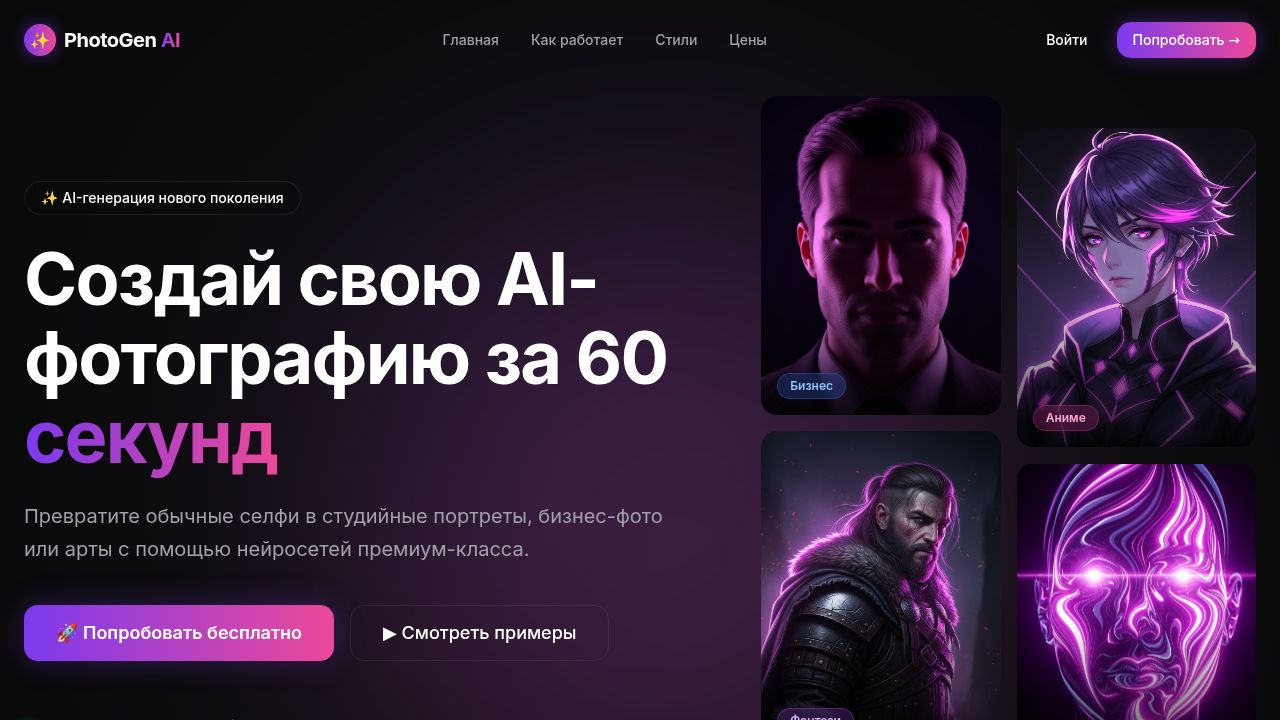
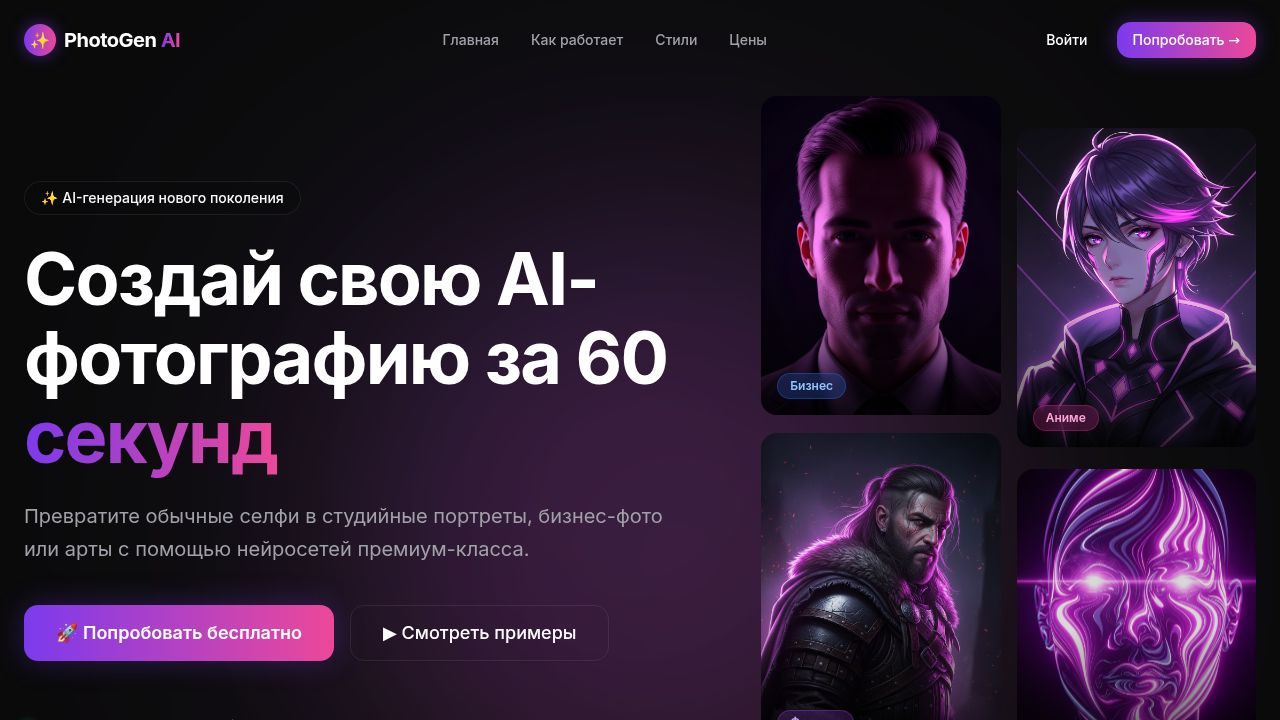
Add AI assistant to help create new style cards and generate previews
Integrates OpenAI's API for text generation to assist in creating style titles, descriptions, and prompts. Includes logic to generate preview images via kie.ai and handle potential API key variations (OpenAI vs. OpenRouter).

Replit-Commit-Author: Agent
Replit-Commit-Session-Id: d3d5835e-31ed-4e98-9926-4d1803e46ea5
Replit-Commit-Checkpoint-Type: full_checkpoint
Replit-Commit-Event-Id: f8f4cb1a-bcbe-4ab3-8c1d-16299fd2ab0e
Replit-Commit-Screenshot-Url: https://storage.googleapis.com/screenshot-production-us-central1/c30d35af-1b04-4a99-98cc-69ab043cd2fa/d3d5835e-31ed-4e98-9926-4d1803e46ea5/wPOqjKo
Replit-Helium-Checkpoint-Created: true

Changed region(s): [[0.7812, 0.6417, 1.0, 1.0], [0.5938, 0.6417, 0.75, 0.9472], [0.5938, 0.9778, 0.6562, 1.0]]

diff --git a/artifacts/api-server/src/routes/admin.ts b/artifacts/api-server/src/routes/admin.ts
@@ -3,6 +3,9 @@ import { db, usersTable, ordersTable, stylesTable, tariffsTable, servicesTable, 
 import { eq, desc, sql } from "drizzle-orm";
 import { z } from "zod";
 import { hashPassword, requireAuth } from "../lib/auth";
+import { getOpenAI, assistModel } from "../lib/openai";
+import { kieCreateNanoBananaProTask, kieGetTask } from "../lib/kie";
+import { uploadBufferToStorage } from "../lib/storage-helpers";
 
 const router: IRouter = Router();
 
@@ -235,6 +238,129 @@ router.patch("/admin/styles/:id", async (req, res) => {
 router.delete("/admin/styles/:id", async (req, res) => {
   await db.delete(stylesTable).where(eq(stylesTable.id, req.params.id));
   res.json({ ok: true });
+});
+
+// ---------- AI assistant for creating styles ----------
+const DEFAULT_STYLE_PRICE = 21;
+
+const AssistSchema = z.object({
+  idea: z.string().min(3).max(4000),
+});
+
+const AssistResultSchema = z.object({
+  title: z.string().min(1),
+  shortDescription: z.string().min(1),
+  fullDescription: z.string().min(1),
+  category: z.string().min(1),
+  prompt: z.string().min(1),
+  imagePrompt: z.string().min(1),
+});
+
+router.post("/admin/styles/assist", async (req, res) => {
+  const parsed = AssistSchema.safeParse(req.body);
+  if (!parsed.success) {
+    res.status(400).json({ error: "Опишите идею стиля (минимум 3 символа)" });
+    return;
+  }
+  const idea = parsed.data.idea.trim();
+
+  let result: z.infer<typeof AssistResultSchema>;
+  try {
+    const completion = await getOpenAI().chat.completions.create({
+      model: assistModel(),
+      response_format: { type: "json_object" },
+      messages: [
+        {
+          role: "system",
+          content:
+            "Ты — ассистент фоторедактора PhotoGen AI. По идее администратора ты придумываешь карточку нового фотостиля. " +
+            "Отвечай строго JSON-объектом со следующими полями: " +
+            "title (короткое название стиля на русском, 2–4 слова), " +
+            "shortDescription (короткое описание на русском, одна строка до 80 символов), " +
+            "fullDescription (полное описание на русском, 2–3 предложения, что получит пользователь), " +
+            "category (одна категория на русском, например «Деловой», «Творческий», «Гламур»), " +
+            "prompt (инструкция на АНГЛИЙСКОМ для модели редактирования изображений Nano Banana Pro — как преобразовать загруженное пользователем фото в этот стиль, сохраняя лицо и черты человека; детально опиши свет, фон, одежду, настроение), " +
+            "imagePrompt (отдельный промпт на АНГЛИЙСКОМ для генерации привлекательной обложки-примера этого стиля с фотореалистичным человеком; portrait, high quality). " +
+            "Никакого текста кроме JSON.",
+        },
+        { role: "user", content: idea },
+      ],
+      max_completion_tokens: 1200,
+    });
+    const raw = completion.choices[0]?.message?.content ?? "";
+    const json = JSON.parse(raw) as unknown;
+    const validated = AssistResultSchema.safeParse(json);
+    if (!validated.success) {
+      req.log.error({ raw }, "assist returned unexpected shape");
+      res.status(502).json({ error: "ИИ вернул некорректный ответ, попробуйте ещё раз" });
+      return;
+    }
+    result = validated.data;
+  } catch (err) {
+    req.log.error({ err }, "assist text generation failed");
+    res.status(502).json({ error: "Не удалось сгенерировать тексты. Проверьте ключ OpenAI и попробуйте снова." });
+    return;
+  }
+
+  let imageTaskId: string | null = null;
+  try {
+    imageTaskId = await kieCreateNanoBananaProTask({
+      prompt: result.imagePrompt,
+      imageUrls: [],
+      aspectRatio: "3:4",
+      resolution: "2K",
+    });
+  } catch (err) {
+    req.log.error({ err }, "assist preview image kickoff failed");
+  }
+
+  res.json({
+    title: result.title,
+    shortDescription: result.shortDescription,
+    fullDescription: result.fullDescription,
+    category: result.category,
+    prompt: result.prompt,
+    price: DEFAULT_STYLE_PRICE,
+    imageTaskId,
+  });
+});
+
+router.get("/admin/styles/assist/image/:taskId", async (req, res) => {
+  const taskId = String(req.params.taskId ?? "");
+  if (!taskId) {
+    res.status(400).json({ error: "Invalid taskId" });
+    return;
+  }
+  try {
+    const info = await kieGetTask(taskId);
+    if (info.state === "success" && info.resultUrls.length > 0) {
+      const url = info.resultUrls[0]!;
+      let previewImageUrl = url;
+      try {
+        const ac = new AbortController();
+        const t = setTimeout(() => ac.abort(), 60_000);
+        const r = await fetch(url, { signal: ac.signal });
+        clearTimeout(t);
+        if (r.ok) {
+          const ct = (r.headers.get("content-type") ?? "image/png").split(";")[0]!.trim();
+          const buf = Buffer.from(await r.arrayBuffer());
+          previewImageUrl = await uploadBufferToStorage(buf, ct, "previews");
+        }
+      } catch (err) {
+        req.log.error({ err, url }, "assist preview mirror failed; using upstream url");
+      }
+      res.json({ status: "success", previewImageUrl });
+      return;
+    }
+    if (info.state === "fail") {
+      res.json({ status: "failed", error: info.errorMessage ?? "Не удалось сгенерировать изображение" });
+      return;
+    }
+    res.json({ status: "processing" });
+  } catch (err) {
+    req.log.error({ err, taskId }, "assist image status check failed");
+    res.json({ status: "processing" });
+  }
 });
 
 export default router;

diff --git a/artifacts/web/src/pages/Admin.tsx b/artifacts/web/src/pages/Admin.tsx
@@ -466,8 +466,76 @@ function StyleEditModal({ style, onClose, onSaved }: { style: Partial<StyleRow>;
   const [saving, setSaving] = useState(false);
   const [error, setError] = useState<string | null>(null);
 
+  const [idea, setIdea] = useState("");
+  const [assisting, setAssisting] = useState(false);
+  const [assistError, setAssistError] = useState<string | null>(null);
+  const [previewStatus, setPreviewStatus] = useState<"idle" | "generating" | "done" | "failed">("idle");
+
   function upd<K extends keyof typeof form>(key: K, val: typeof form[K]) {
     setForm((f) => ({ ...f, [key]: val }));
+  }
+
+  async function pollPreview(taskId: string): Promise<void> {
+    setPreviewStatus("generating");
+    for (let i = 0; i < 40; i++) {
+      await new Promise((r) => setTimeout(r, 3000));
+      try {
+        const r = await apiFetch<{ status: string; previewImageUrl?: string; error?: string }>(
+          `/admin/styles/assist/image/${taskId}`,
+        );
+        if (r.status === "success" && r.previewImageUrl) {
+          upd("previewImageUrl", r.previewImageUrl);
+          setPreviewStatus("done");
+          return;
+        }
+        if (r.status === "failed") {
+          setPreviewStatus("failed");
+          return;
+        }
+      } catch {
+        /* keep polling */
+      }
+    }
+    setPreviewStatus("failed");
+  }
+
+  async function runAssist() {
+    if (idea.trim().length < 3) {
+      setAssistError("Опишите идею стиля");
+      return;
+    }
+    setAssisting(true);
+    setAssistError(null);
+    setPreviewStatus("idle");
+    try {
+      const r = await apiFetch<{
+        title: string;
+        shortDescription: string;
+        fullDescription: string;
+        category: string;
+        prompt: string;
+        price: number;
+        imageTaskId: string | null;
+      }>("/admin/styles/assist", { method: "POST", body: JSON.stringify({ idea }) });
+      setForm((f) => ({
+        ...f,
+        title: r.title,
+        shortDescription: r.shortDescription,
+        fullDescription: r.fullDescription,
+        category: r.category,
+        prompt: r.prompt,
+        price: String(r.price),
+      }));
+      if (r.imageTaskId) {
+        void pollPreview(r.imageTaskId);
+      } else {
+        setPreviewStatus("failed");
+      }
+    } catch (e) {
+      setAssistError(e instanceof Error ? e.message : String(e));
+    } finally {
+      setAssisting(false);
+    }
   }
 
   async function save() {
@@ -502,6 +570,40 @@ function StyleEditModal({ style, onClose, onSaved }: { style: Partial<StyleRow>;
 
   return <Modal title={style.id ? "Редактировать стиль" : "Новый стиль"} onClose={onClose} wide>
     <div className="space-y-4">
+      <div className="rounded-xl border border-[#7C3AED]/40 bg-[#7C3AED]/10 p-4 space-y-3">
+        <div className="flex items-center gap-2">
+          <Sparkles size={18} className="text-[#A78BFA]" />
+          <span className="font-semibold text-white">AI-помощник</span>
+          <span className="text-xs text-muted-foreground">опишите идею — заполнит карточку и создаст превью</span>
+        </div>
+        <Textarea
+          value={idea}
+          onChange={(e) => setIdea(e.target.value)}
+          rows={3}
+          placeholder="Например: деловой портрет в современном офисе, мягкий свет, строгий костюм, уверенный образ для LinkedIn"
+          className="bg-secondary border-border text-white"
+        />
+        <div className="flex items-center gap-3 flex-wrap">
+          <Button
+            type="button"
+            onClick={runAssist}
+            disabled={assisting}
+            className="bg-gradient-primary text-white border-0"
+          >
+            {assisting ? "Генерация..." : "Сгенерировать с ИИ"}
+          </Button>
+          {previewStatus === "generating" && (
+            <span className="text-sm text-[#A78BFA] flex items-center gap-1.5">
+              <Loader2 size={14} className="animate-spin" /> Создаю превью-фото...
+            </span>
+          )}
+          {previewStatus === "done" && <span className="text-sm text-emerald-400">Превью готово ✓</span>}
+          {previewStatus === "failed" && (
+            <span className="text-sm text-amber-400">Превью не удалось — загрузите фото вручную ниже</span>
+          )}
+        </div>
+        {assistError && <div className="text-sm text-red-400">{assistError}</div>}
+      </div>
       <div className="grid grid-cols-2 gap-4">
         <Field label="Название"><Input value={form.title} onChange={(e) => upd("title", e.target.value)} className="bg-secondary border-border text-white" /></Field>
         <Field label="Категория (тег)"><Input value={form.category} onChange={(e) => upd("category", e.target.value)} placeholder="Портрет / Арт / Бизнес / ..." className="bg-secondary border-border text-white" /></Field>

diff --git a/artifacts/api-server/src/lib/openai.ts b/artifacts/api-server/src/lib/openai.ts
@@ -1,0 +1,27 @@
+import OpenAI from "openai";
+
+let client: OpenAI | null = null;
+
+/** OpenRouter keys start with `sk-or-`; they require OpenRouter's base URL. */
+function isOpenRouterKey(key: string): boolean {
+  return key.startsWith("sk-or-");
+}
+
+/** Model id to use for text generation, namespaced for OpenRouter when needed. */
+export function assistModel(): string {
+  const key = process.env["OPENAI_API_KEY"] ?? "";
+  return isOpenRouterKey(key) ? "openai/gpt-4o-mini" : "gpt-4o-mini";
+}
+
+/** Lazily construct the OpenAI-compatible client so the server can boot without the key. */
+export function getOpenAI(): OpenAI {
+  const key = process.env["OPENAI_API_KEY"];
+  if (!key) throw new Error("OPENAI_API_KEY is not configured");
+  if (!client) {
+    client = new OpenAI({
+      apiKey: key,
+      ...(isOpenRouterKey(key) ? { baseURL: "https://openrouter.ai/api/v1" } : {}),
+    });
+  }
+  return client;
+}

diff --git a/artifacts/api-server/src/lib/kie.ts b/artifacts/api-server/src/lib/kie.ts
@@ -58,17 +58,23 @@ export interface KieCreateTaskInput {
   resolution?: "1K" | "2K" | "4K";
 }
 
-/** Submit a Nano Banana Pro image-to-image task. Returns the taskId for polling. */
+/**
+ * Submit a Nano Banana Pro task. With image URLs it runs image-to-image;
+ * with an empty list it runs pure text-to-image. Returns the taskId for polling.
+ */
 export async function kieCreateNanoBananaProTask(input: KieCreateTaskInput): Promise<string> {
+  const inner: Record<string, unknown> = {
+    prompt: input.prompt,
+    aspect_ratio: input.aspectRatio ?? "auto",
+    resolution: input.resolution ?? "2K",
+    output_format: "png",
+  };
+  if (input.imageUrls.length > 0) {
+    inner["image_input"] = input.imageUrls;
+  }
   const body = {
     model: "nano-banana-pro",
-    input: {
-      prompt: input.prompt,
-      image_input: input.imageUrls,
-      aspect_ratio: input.aspectRatio ?? "auto",
-      resolution: input.resolution ?? "2K",
-      output_format: "png",
-    },
+    input: inner,
   };
   const res = await fetch(`${KIE_BASE}/api/v1/jobs/createTask`, {
     method: "POST",

diff --git a/.agents/memory/openrouter-key.md b/.agents/memory/openrouter-key.md
@@ -1,0 +1,12 @@
+---
+name: OpenAI/OpenRouter key handling
+description: The project's OPENAI_API_KEY secret is actually an OpenRouter key; client must switch base URL + model namespace.
+---
+
+# OPENAI_API_KEY is an OpenRouter key
+
+The secret named `OPENAI_API_KEY` in this project holds an **OpenRouter** key (prefix `sk-or-`), not a direct OpenAI key.
+
+**Why:** The user declined the Replit-managed OpenAI integration and pasted their own key, which turned out to be an OpenRouter key. A direct `new OpenAI({ apiKey })` call returns `401 Incorrect API key` because it hits `api.openai.com`.
+
+**How to apply:** The OpenAI-compatible client (`artifacts/api-server/src/lib/openai.ts`) detects the `sk-or-` prefix and, when present, sets `baseURL: "https://openrouter.ai/api/v1"` and namespaces model ids (e.g. `openai/gpt-4o-mini` instead of `gpt-4o-mini`). If the user later swaps in a real OpenAI key, the same code falls back to the default OpenAI base URL and bare model names automatically. Don't hardcode a single base URL or model name.

diff --git a/.agents/memory/MEMORY.md b/.agents/memory/MEMORY.md
@@ -1,0 +1,1 @@
+- [OpenAI/OpenRouter key handling](openrouter-key.md) — project's OPENAI_API_KEY is an OpenRouter key (sk-or-); client switches base URL + model namespace by prefix.